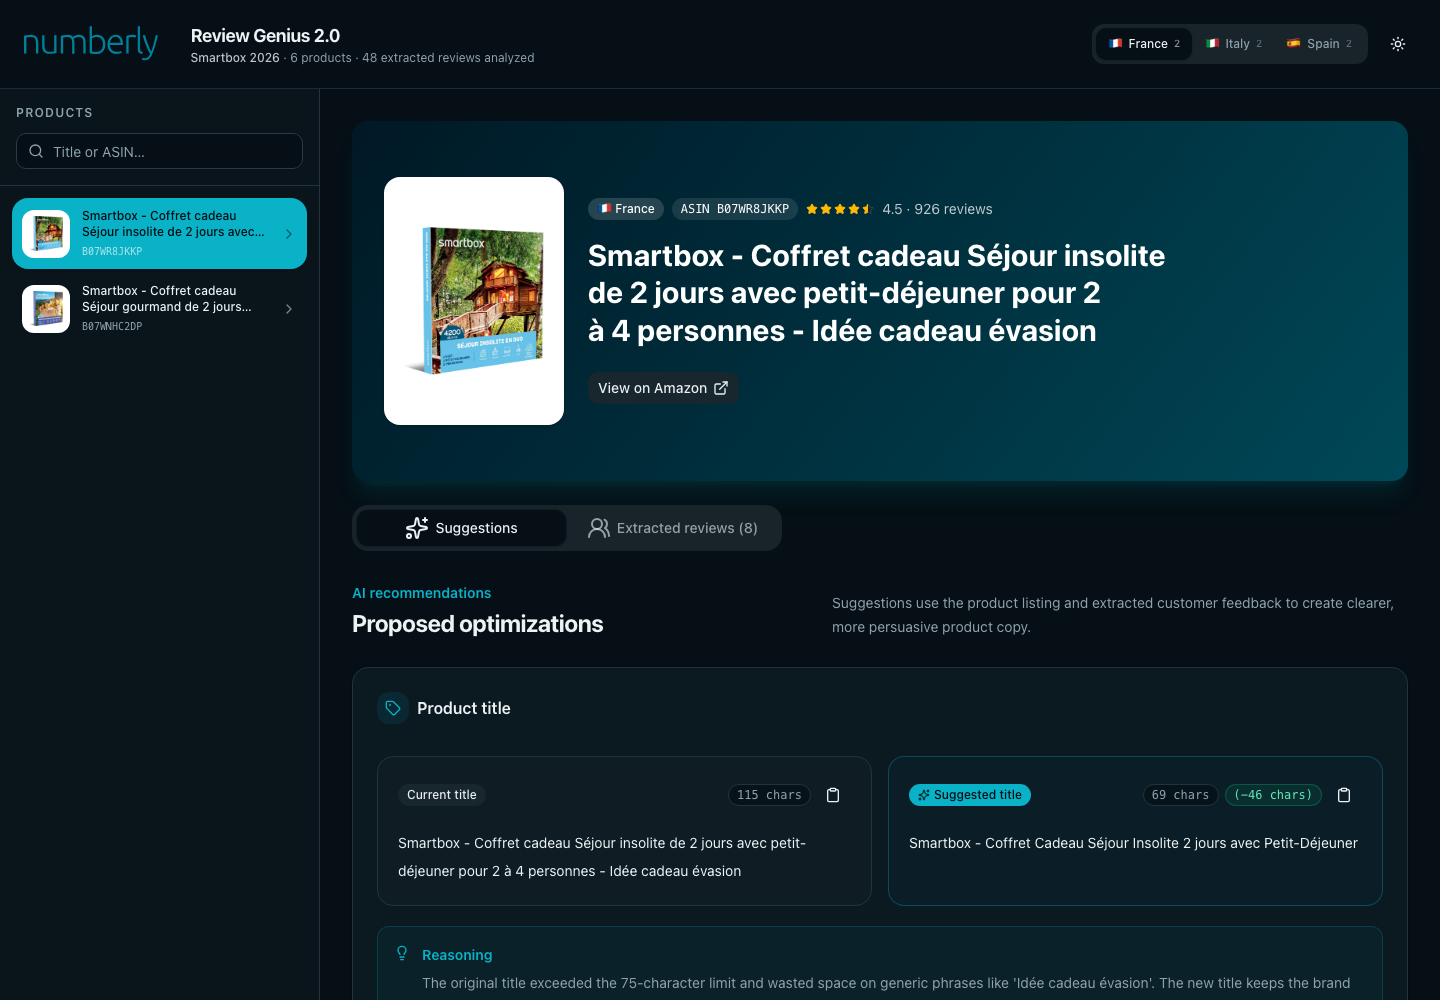
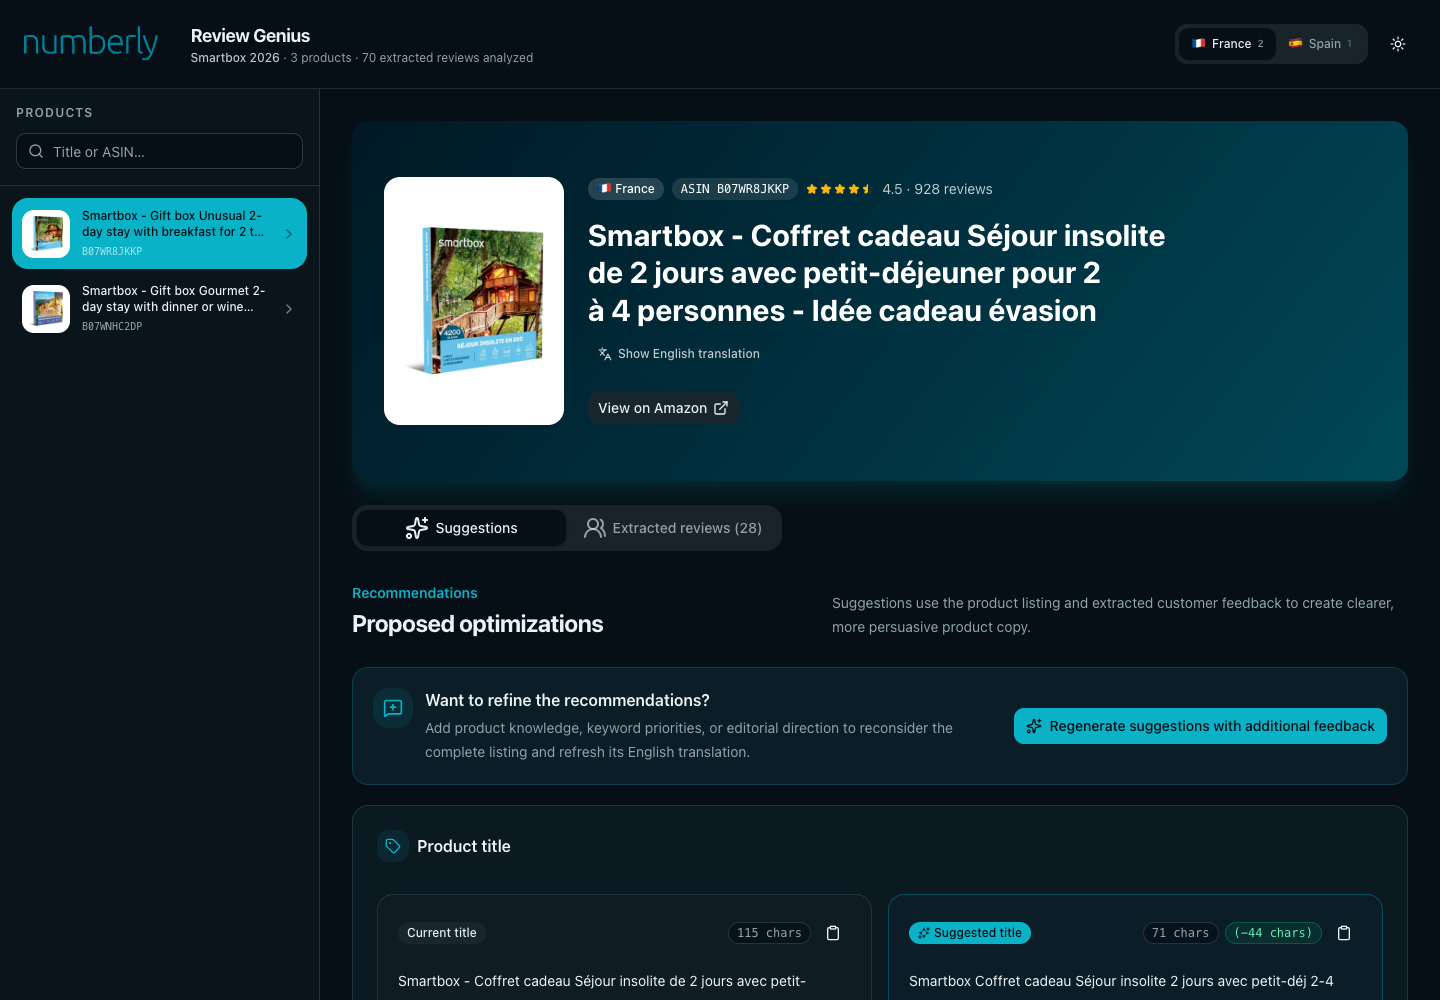
Rename "Review Genius 2.0" to "Review Genius"

diff --git a/src/excel/generate-excel.ts b/src/excel/generate-excel.ts
@@ -9,6 +9,7 @@ import type { Market, StoredOutput, StoredProduct } from "../schemas.js";
 const EXCEL_CACHE_DIRECTORY = path.resolve(".cache/excel");
 const EXCEL_CELL_CHARACTER_LIMIT = 32_767;
 const WORKBOOK_FONT = "Arial";
+const REPORT_NAME = "Review Genius";
 const MARKET_NAMES: Record<Market, string> = {
     fr: "France",
     it: "Italy",
@@ -178,7 +179,7 @@ function addOverviewSheet(
     ];
     styleBanner(
         worksheet,
-        "Review Genius 2.0",
+        REPORT_NAME,
         `${output.title} · ${MARKET_NAMES[market]} (${market}) · ${products.length} product${
             products.length === 1 ? "" : "s"
         }`,
@@ -263,7 +264,7 @@ function addOverviewSheet(
         paperSize: 9,
         margins: { left: 0.25, right: 0.25, top: 0.5, bottom: 0.5, header: 0.2, footer: 0.2 }
     };
-    worksheet.headerFooter.oddFooter = "&LReview Genius 2.0&C&A&RPage &P of &N";
+    worksheet.headerFooter.oddFooter = `&L${REPORT_NAME}&C&A&RPage &P of &N`;
 }
 
 type CopyComparison = {
@@ -344,7 +345,7 @@ function addProductSheet(
     ];
     styleBanner(
         worksheet,
-        `Review Genius 2.0 · ${product.asin}`,
+        `${REPORT_NAME} · ${product.asin}`,
         `${output.title} · ${MARKET_NAMES[market]} (${market})`,
         9
     );
@@ -536,7 +537,7 @@ function addProductSheet(
         printArea: "A1:I13",
         margins: { left: 0.25, right: 0.25, top: 0.5, bottom: 0.5, header: 0.2, footer: 0.2 }
     };
-    worksheet.headerFooter.oddFooter = `&LReview Genius 2.0&C${product.asin}&RPage &P of &N`;
+    worksheet.headerFooter.oddFooter = `&L${REPORT_NAME}&C${product.asin}&RPage &P of &N`;
 }
 
 type ReviewExportEntry = {
@@ -603,7 +604,7 @@ function addReviewsSheet(
     const reviewCount = products.reduce((total, product) => total + product.reviews.items.length, 0);
     styleBanner(
         worksheet,
-        "Review Genius 2.0 · Extracted reviews",
+        `${REPORT_NAME} · Extracted reviews`,
         `${output.title} · ${MARKET_NAMES[market]} (${market}) · ${reviewCount} review${
             reviewCount === 1 ? "" : "s"
         }`,
@@ -714,7 +715,7 @@ function addReviewsSheet(
         paperSize: 9,
         margins: { left: 0.25, right: 0.25, top: 0.5, bottom: 0.5, header: 0.2, footer: 0.2 }
     };
-    worksheet.headerFooter.oddFooter = "&LReview Genius 2.0&CExtracted reviews&RPage &P of &N";
+    worksheet.headerFooter.oddFooter = `&L${REPORT_NAME}&CExtracted reviews&RPage &P of &N`;
 }
 
 function createProductSheetNames(products: StoredProduct[]): Map<string, string> {
@@ -743,8 +744,8 @@ function createMarketWorkbook(
     products: StoredProduct[]
 ): ExcelJS.Workbook {
     const workbook = new ExcelJS.Workbook();
-    workbook.creator = "Numberly · Review Genius 2.0";
-    workbook.lastModifiedBy = "Review Genius 2.0";
+    workbook.creator = `Numberly · ${REPORT_NAME}`;
+    workbook.lastModifiedBy = REPORT_NAME;
     workbook.created = new Date();
     workbook.modified = new Date();
     workbook.company = "Numberly";

diff --git a/src/report/main.tsx b/src/report/main.tsx
@@ -71,6 +71,7 @@ declare const __REPORT_LOGO_URL__: string;
 
 const { title: reportTitle, markets: reportData } = __REPORT_DATA__;
 const reportAiConfig = __REPORT_AI_CONFIG__;
+const REPORT_NAME = "Review Genius";
 const REFINEMENT_STORAGE_KEY = [
     "review-genius-refinements",
     reportTitle,
@@ -1331,7 +1332,7 @@ function Header({
                     <img src={__REPORT_LOGO_URL__} alt="Numberly" className="h-7 w-auto sm:h-9" />
                     <Separator orientation="vertical" className="hidden h-8 sm:block" />
                     <div>
-                        <p className="text-sm font-bold tracking-tight sm:text-lg">Review Genius 2.0</p>
+                        <p className="text-sm font-bold tracking-tight sm:text-lg">{REPORT_NAME}</p>
                         <p className="text-xs text-muted-foreground">
                             <span className="font-medium text-foreground/80">{reportTitle}</span>
                             <span className="hidden sm:inline">
@@ -1521,7 +1522,9 @@ function App() {
                         </Tabs>
 
                         <footer className="mt-10 flex flex-wrap items-center justify-between gap-3 border-t py-6 text-xs text-muted-foreground">
-                            <span>Review Genius 2.0 · {reportTitle} report</span>
+                            <span>
+                                {REPORT_NAME} · {reportTitle} report
+                            </span>
                             <span className="inline-flex items-center gap-1">
                                 Self-contained local report <ArrowRight className="size-3" />{" "}
                                 {marketMetadata[group.market].label}

diff --git a/src/report/generate-report.ts b/src/report/generate-report.ts
@@ -18,6 +18,7 @@ const CACHED_PRODUCT_IMAGES_DIRECTORY = path.join(REPORT_CACHE_DIRECTORY, "produ
 const OPTIMIZED_PRODUCT_IMAGES_DIRECTORY = path.join(REPORT_CACHE_DIRECTORY, "optimized-product-images");
 const CACHED_STYLES_PATH = path.join(REPORT_CACHE_DIRECTORY, "app.css");
 const PRODUCT_IMAGE_MAXIMUM_SIZE = 640;
+const REPORT_NAME = "Review Genius";
 
 function escapeHtmlText(value: string): string {
     return value.replaceAll("&", "&amp;").replaceAll("<", "&lt;").replaceAll(">", "&gt;");
@@ -57,7 +58,7 @@ function createSingleFileHtml(
         <meta name="viewport" content="width=device-width, initial-scale=1.0" />
         <meta name="color-scheme" content="light dark" />
         <meta name="theme-color" content="#008099" />
-        <title>Review Genius 2.0 · ${escapeHtmlText(reportTitle)}</title>
+        <title>${REPORT_NAME} · ${escapeHtmlText(reportTitle)}</title>
         <link rel="icon" type="image/x-icon" href="${faviconUrl}" />
         <script>
             try {
@@ -70,7 +71,7 @@ function createSingleFileHtml(
     </head>
     <body>
         <div id="root"></div>
-        <noscript>Review Genius 2.0 requires JavaScript to navigate the report.</noscript>
+        <noscript>${REPORT_NAME} requires JavaScript to navigate the report.</noscript>
         <script>${escapeInlineScript(applicationJavaScript)}</script>
     </body>
 </html>

diff --git a/README.md b/README.md
@@ -2,7 +2,7 @@
   <img src="assets/numberly-logo.svg" alt="Numberly" width="220" />
 </p>
 
-<h1 align="center">Review Genius 2.0</h1>
+<h1 align="center">Review Genius</h1>
 
 <p align="center">
   Turn Amazon listings and customer reviews into copy recommendations designed around official Amazon guidance and conversion best practices, delivered in a self-contained, navigable report.
